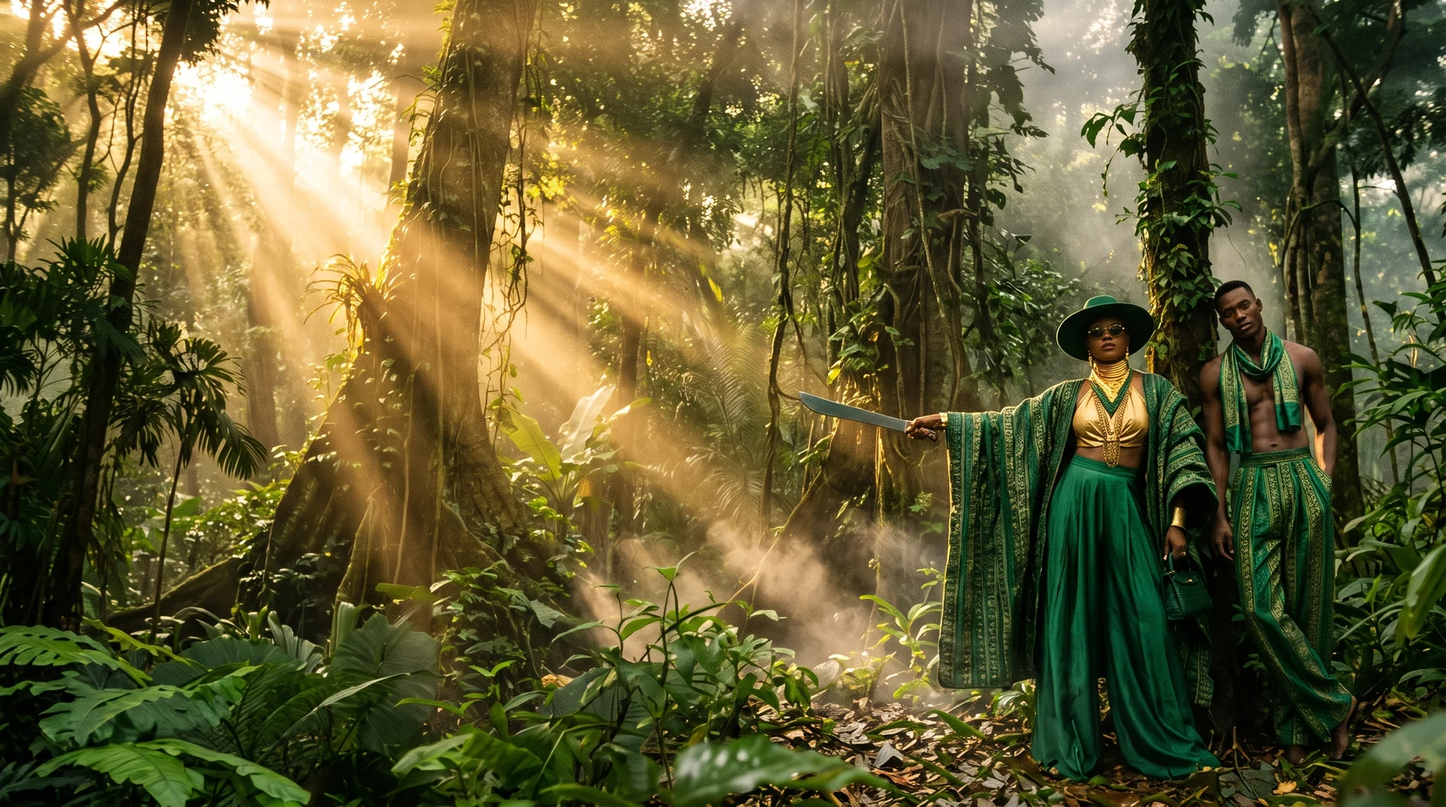
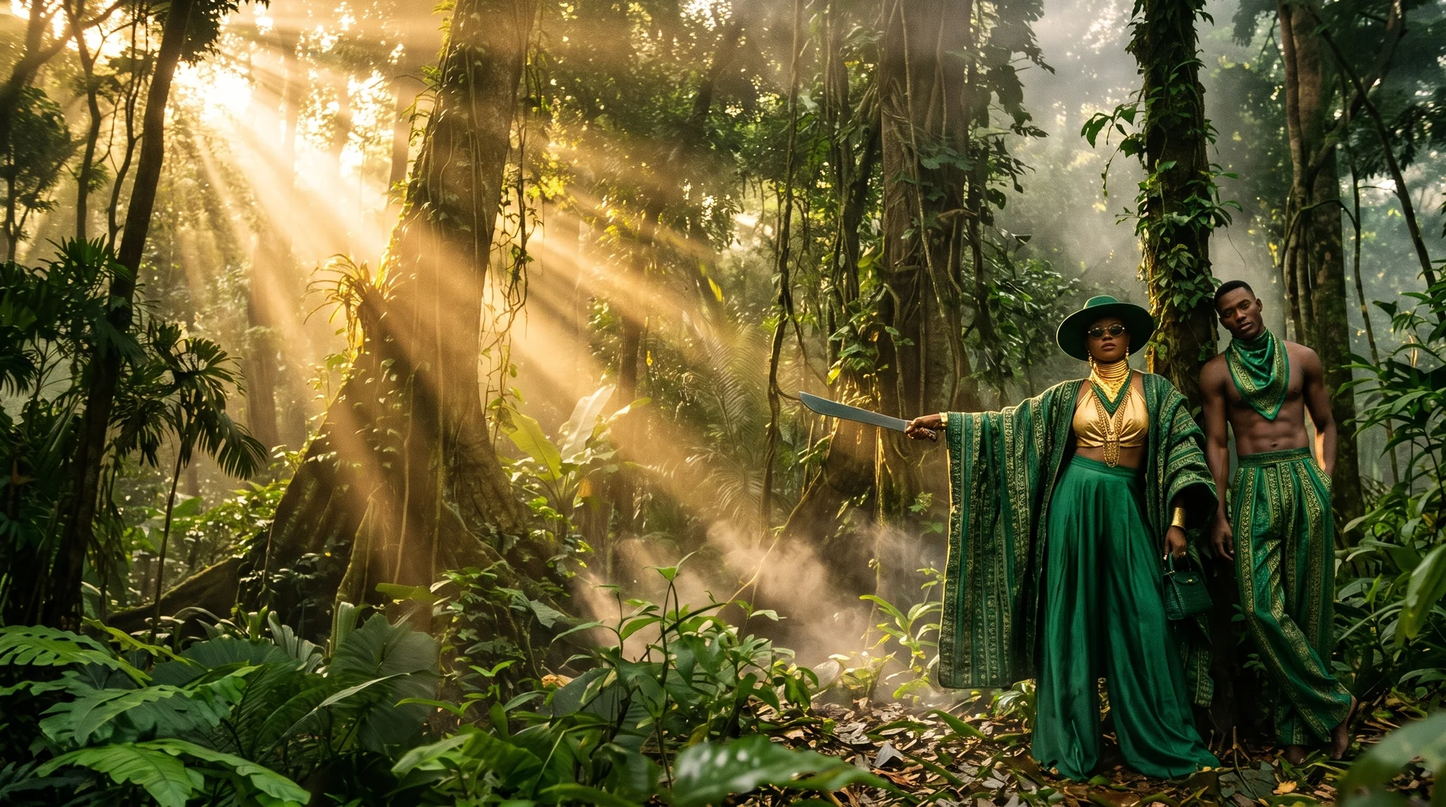
Oud Panga: silk scarf now sits close at his neck in a V, like the woman's band, no jewellery on him

Changed region(s): [[0.8438, 0.3981, 0.9062, 0.5818]]

diff --git a/index.html b/index.html
@@ -431,8 +431,8 @@ var BL = [
    nameStyle:{fill:["#F3DC9A","#D9AE52","#9C7225"], op:0.92, glow:"rgba(0,0,0,.55)", blur:18, shade:0.55, shadeTo:0.42, shadeRGB:"6,28,16"},
    // test scene (21 Nov): Congo rainforest couple. Whole photo as one layer for now; the people are not cut out yet, so the
    // front layer is an empty placeholder (their heads sit well below the name). Sources: scene/oud-panga-scene*.jpg
-   layers:{wide:{w:2048,h:1143,sky:"img/scenes/oud-panga-sky.webp?v=scarf",fg:"img/scenes/empty-fg.webp"},
-           tall:{w:1080,h:2160,sky:"img/scenes/oud-panga-sky-tall.webp?v=scarf",fg:"img/scenes/empty-fg.webp"}}},
+   layers:{wide:{w:2048,h:1143,sky:"img/scenes/oud-panga-sky.webp?v=scarf2",fg:"img/scenes/empty-fg.webp"},
+           tall:{w:1080,h:2160,sky:"img/scenes/oud-panga-sky-tall.webp?v=scarf2",fg:"img/scenes/empty-fg.webp"}}},
   {n:34,name:"Omeya Dew",top:["Neroli","African marigold","Bergamot"],heart:["Violet","Jasmine","Cyclamen"],base:["Vetiver","Cedar","Musk"],
    desc:"Green neroli and marigold over vetiver and cedar. Daytime and hot weather, unisex. Like dew on leaves in a garden at dawn.",
    col:["#e3b54a","#8fa35a","#5f6b45"], sc:["#f1d58a","#c9a14a","#6b5a2a"], hover:true,
